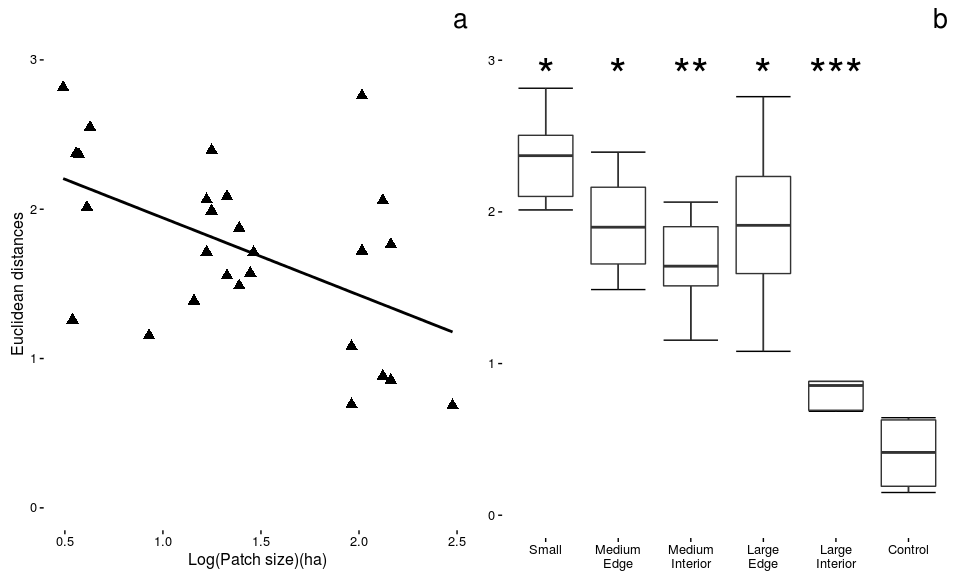
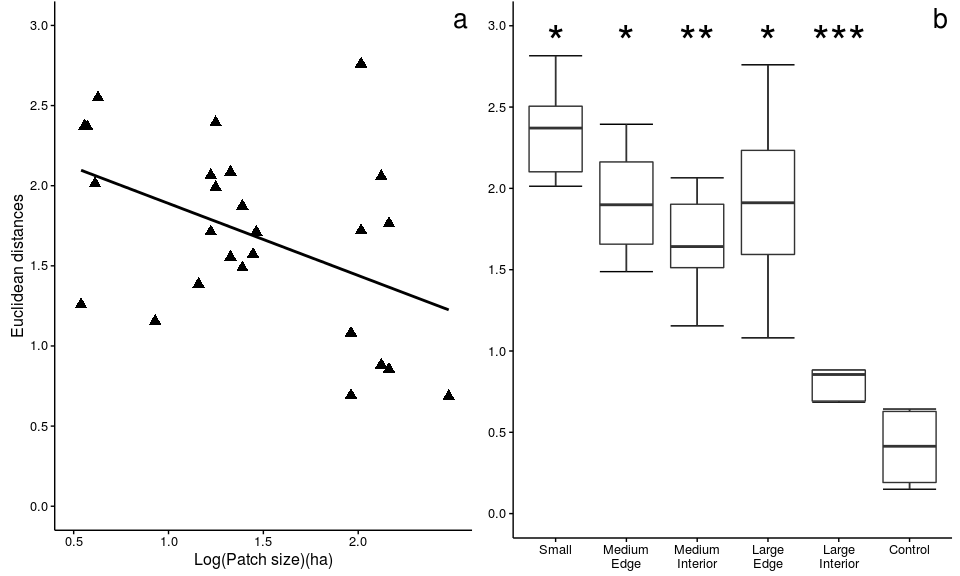
add workaround for bug in theme_classic

diff --git a/exercicio_5_graficos.md b/exercicio_5_graficos.md
@@ -59,6 +59,7 @@ Crie um gráfico de dispersão entre `dap` e `ht` com:
 
     p <- p + 
       theme(panel.border= element_blank(),
+            panel.grid = element_blank(),
             axis.line.x = element_line(),
             axis.line.y = element_line())
 
@@ -120,13 +121,11 @@ necessário ter o pacote `Hmisc` instalado para usar a função
 
     p_box <-
       p_box + 
-      labs(title = "a)") + 
-      theme(plot.title = element_text(hjust = 0))
+      labs(title = "a)")
 
     p_media_desvio <-
       p_media_desvio + 
-      labs(title = "b)") + 
-      theme(plot.title = element_text(hjust = 0))
+      labs(title = "b)") 
 
     pushViewport(viewport(layout = grid.layout(1, 2)))
     print(p_box, vp = viewport(layout.pos.row = 1, layout.pos.col = 1))
@@ -147,10 +146,15 @@ figura:**
       ggplot(data = dat, aes(x1, y1)) + 
       geom_point(size = 3, shape = 17) + 
       geom_smooth(method = lm, se = FALSE, color = "black") +
+      scale_x_continuous(breaks = seq(.5, 2, .5), limits = c(0.5, 2.5)) +
+      scale_y_continuous(breaks = seq(0, 3, .5), limits = c(0, 3)) +
       labs(title = "a", x = "Log(Patch size)(ha)", y = "Euclidean distances") + 
-      theme_classic() +
-      theme(plot.title = element_text(hjust = .99, size = 20)) +
-      coord_cartesian(ylim = c(0, 3))
+      theme_bw() +
+      theme(plot.title = element_text(hjust = .99, size = 20, margin = margin(b = -20)),
+            panel.border= element_blank(),
+            panel.grid = element_blank(),
+            axis.line.x = element_line(),
+            axis.line.y = element_line())
 
     p_b <- 
       ggplot(data = dat, aes(factor(y2), x2)) + 
@@ -158,10 +162,15 @@ figura:**
       geom_boxplot(outlier.shape = NA) +
       scale_x_discrete(labels = c("Small", "Medium\nEdge", "Medium\nInterior",
                                   "Large\nEdge", "Large\nInterior", "Control")) +
+      scale_y_continuous(breaks = seq(0, 3, .5), limits = c(0, 3)) +
       labs(title = "b") +
-      theme_classic() +
+      theme_bw() +
       theme(axis.title = element_blank(), 
-            plot.title = element_text(hjust = .99, size = 20)) +
+            plot.title = element_text(hjust = .99, size = 20, margin = margin(b = -20)),
+            panel.border= element_blank(),
+            panel.grid = element_blank(),
+            axis.line.x = element_line(),
+            axis.line.y = element_line()) +
       coord_cartesian(ylim = c(0 ,3)) +
       annotate("text", x = 1:6, y = 2.9, 
                label = c("*", "*", "**", "*", "***", ""), size = 12) 
